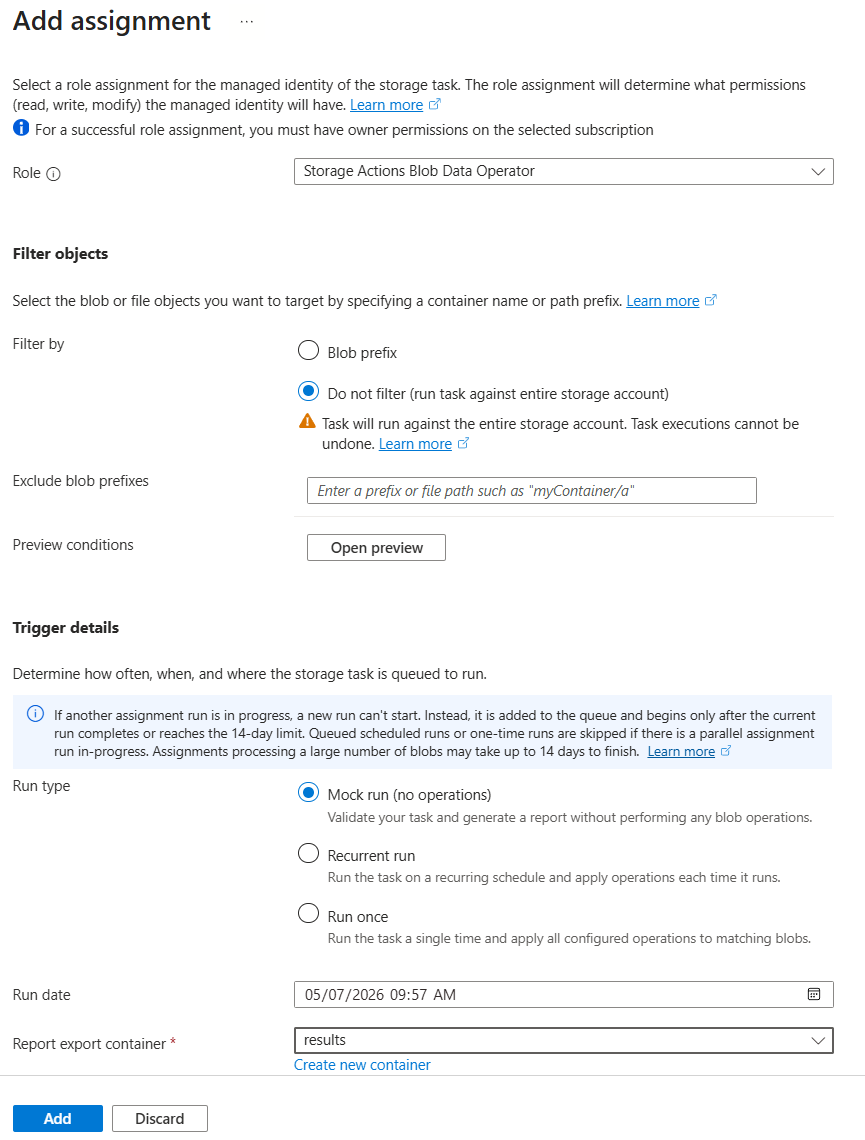
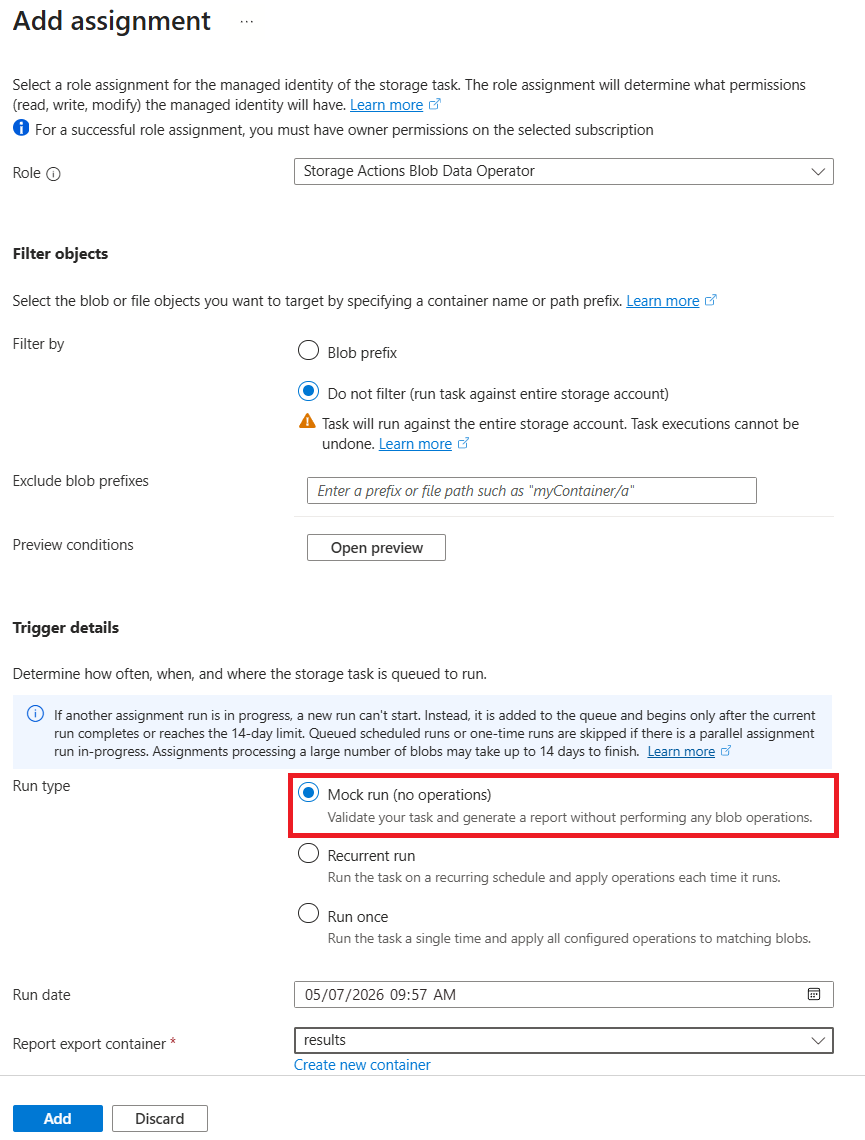
Update mock run screenshots: sanitize results page; refresh add-assignment shot
- Replace add-assignment-mock-run.png with an updated version that
  highlights the Mock run (no operations) option in the Run type
  section.
- Replace the placeholder for mock-run-results-page.png with a
  sanitized screenshot using ContosoSubscription / ContosoStorageAccount
  in the Scope card.
- Uncomment the live image reference in storage-task-mock-run.md and
  remove the placeholder .gitkeep.

Changed region(s): [[0.3121, 0.6754, 0.9676, 0.7368]]

diff --git a/articles/storage-actions/storage-tasks/storage-task-mock-run.md b/articles/storage-actions/storage-tasks/storage-task-mock-run.md
@@ -76,9 +76,7 @@ When a mock run finishes, a detailed report is written to the report export cont
 
 You can also view a summary of the run directly in the Azure portal on the assignment's mock run results page, including the number of objects listed, objects that met the conditions, and operations that would have been performed.
 
-<!-- TODO: Add a sanitized screenshot (no internal subscription details) once available.
 > ![Screenshot of the mock run results page in the Azure portal showing the Mock summary tab with Objects listed, Objects met condition, Operations mocked, and the Download report button.](../media/storage-tasks/storage-task-mock-run/mock-run-results-page.png)
--->
 
 **Report columns:**
 
